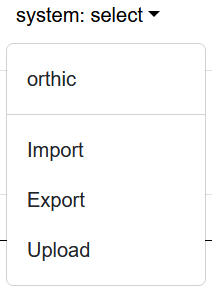
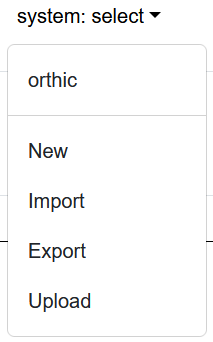
Add Delete button

diff --git a/static/js/index-scripts.js b/static/js/index-scripts.js
@@ -134,6 +134,67 @@ async function saveSystemToServer(systemName, systemData) {
 //     modal.show();
 // }
 
+function newSystem() {
+    console.log('newSystem')
+
+    // Prompt user for the system name
+    const inputName = prompt("Name for new system:");
+    if (!inputName) return; // Exit if user cancels or enters nothing
+
+    // Initialize new system object
+    const newSystemData = {
+        modes: {},
+        glyphs: {},
+        rules: [],
+        phrases: {}
+    };
+
+    // Set selectedSystem and add to systems
+    selectedSystem = inputName;
+    systems[selectedSystem] = newSystemData;
+
+    // Store in localStorage
+    localStorage.setItem('selectedSystem', selectedSystem);
+    localStorage.setItem('systems', JSON.stringify(systems));
+
+    // Update navbar or UI
+    navbarElement.textContent = `system: ${selectedSystem ? selectedSystem : 'select'}`;
+
+    // Reload the page
+    location.reload();
+}
+
+document.getElementById('newSystem').addEventListener('click', newSystem)
+
+function deleteSystem() {
+    if (!selectedSystem) {
+        alert("No system is currently selected.");
+        return;
+    }
+
+    const confirmDelete = confirm(`Are you sure you want to delete the system "${selectedSystem}"? This cannot be undone.`);
+    if (!confirmDelete) return;
+
+    // Delete the selected system
+    delete systems[selectedSystem];
+
+    // Clear selectedSystem
+    selectedSystem = null;
+
+    // Update localStorage
+    localStorage.setItem('systems', JSON.stringify(systems));
+    localStorage.removeItem('selectedSystem');
+
+    // Update UI
+    navbarElement.textContent = 'system: select';
+
+    // Optionally reload the page
+    location.reload();
+}
+
+document.getElementById('deleteSystem').addEventListener('click', deleteSystem);
+
+
 async function loadSystemData(systemName) {
     const basePath = `./static/data/systems/${systemName}`;
     const requiredFiles = ['glyphs.json', 'modes.json', 'rules.json', 'phrases.json'];
@@ -201,25 +262,28 @@ function addSystemsToDropdown() {
         // const downloadableList = document.getElementById('downloadableList');
 
         // Loop through the systems and create list items
-        data.systems.forEach(systemKey => {
-            const listItem = document.createElement('li');
-            listItem.classList.add('list-group-item', 'list-group-item-action');
-            // listItem.innerText = system;
-            listItem.innerHTML = `<a class="dropdown-item" href="#">${systemKey}</a>`; // Use the key as the link text
+        // data.systems.forEach(systemKey => {
+        // Create a Set to avoid duplicates from merging both sources
+        const allSystemKeys = new Set([
+            ...(data.systems || []),
+            ...Object.keys(systems || {})
+        ]);
 
-            // Add a click event listener to the anchor element
-            listItem.querySelector('a').addEventListener('click', async function (event) {
+        // Loop through the combined set of system keys
+        allSystemKeys.forEach(systemKey => {
+                const listItem = document.createElement('li');
+                listItem.classList.add('list-group-item', 'list-group-item-action');
+                // listItem.innerText = system;
+                listItem.innerHTML = `<a class="dropdown-item" href="#">${systemKey}</a>`; // Use the key as the link text
 
-            // // Add click event listener to each item
-            // listItem.addEventListener('click', function () {
+                // Add a click event listener to the anchor element
+                listItem.querySelector('a').addEventListener('click', async function (event) {
+
+                // Add click event listener to each item
                 if (!(systemKey in systems)) {
                     // Load the selected system's data
                     await loadSystemData(systemKey);
                 }
-
-                // event.preventDefault(); // Prevent default anchor behavior
-                // selectedSystem = systemKey; // Use the key as the selected system
-                // localStorage.setItem('selectedSystem', selectedSystem);
 
                 selectedSystem = systemKey;
                 localStorage.setItem('selectedSystem', selectedSystem);
@@ -234,31 +298,6 @@ function addSystemsToDropdown() {
         });
     })
     .catch(error => console.error('Error loading JSON:', error));
-
-    // // Loop through the dictionary keys
-    // for (const systemKey in systems) {
-    //     if (systems.hasOwnProperty(systemKey)) {
-    //         const listItem = document.createElement('li'); // Create a list item
-    //         listItem.innerHTML = `<a class="dropdown-item" href="#">${systemKey}</a>`; // Use the key as the link text
-
-    //         // Add a click event listener to the anchor element
-    //         listItem.querySelector('a').addEventListener('click', function (event) {
-    //             event.preventDefault(); // Prevent default anchor behavior
-
-    //             // Set the currently selected system
-    //             selectedSystem = systemKey; // Use the key as the selected system
-
-    //             // Store the selected system in local storage or a global variable
-    //             localStorage.setItem('selectedSystem', selectedSystem);
-    //             navbarElement.textContent = `system: ${selectedSystem ? selectedSystem : 'select'}`;
-
-    //             // Refresh the page
-    //             location.reload(); // This will reload the current page
-    //         });
-
-    //         systemsListContainer.appendChild(listItem); // Append the item to the systems list
-    //     }
-    // }
 }
 
 async function loadSystemsAndUpdateDropdown() {
@@ -267,12 +306,6 @@ async function loadSystemsAndUpdateDropdown() {
     const divider = document.getElementById("systemsDivider");
 
     divider.style.display = "block"
-    // if (Object.keys(systems).length > 0) {
-    //     divider.style.display = "block"; // Show divider if systems exist
-    // } else {
-    //     divider.style.display = "none"; // Hide divider if no systems
-    // }
-
 }
 
 // Call the fetch function on page load

diff --git a/help.html b/help.html
@@ -62,7 +62,8 @@
                     <ul class="dropdown-menu" aria-labelledby="navbarDropdown">
                         <div id="systemsList"></div>
                         <li><hr class="dropdown-divider" id="systemsDivider" style="display: none;"></li> <!-- Divider -->
-                        <!-- <li><a class="dropdown-item" href="#" id="downloadSystem">Download</a></li> -->
+                        <li><a class="dropdown-item" href="#" id="newSystem">New</a></li>
+                        <li><a class="dropdown-item" href="#" id="deleteSystem">Delete</a></li>
                         <li><a class="dropdown-item" href="#" id="importSystem">Import</a></li>
                         <li><a class="dropdown-item" href="#" id="exportSystem">Export</a></li>
                         <li><a class="dropdown-item" href="#" id="openUploadModal" data-bs-toggle="modal" data-bs-target="#uploadModal">Upload</a></li>
@@ -103,7 +104,7 @@
                         </ul>
 
                         <p>If you do not have a Github account, contact <a href="https://www.reddit.com/user/jerrshv/">u/jerrshv</a> on Reddit for assistance.</p>
-                        
+
                     </div>
                     <div class="modal-footer">
                         <button type="button" class="btn btn-secondary" data-bs-dismiss="modal">Close</button>
@@ -181,15 +182,17 @@
     <h3 id="basics">Basics</h3>
     <br>
 
-    Before doing anything, you must first select the system that you want to use:
+    Before doing anything, you must first select the system that you want to use (or select New to create a new one):
 
     <div style="text-align: center; padding: 20px;">
         <img src="static/data/images/system_selector.png" alt="The system selector dropdown menu." />
         <figcaption style="margin-top: 10px;">
             The system selector dropdown menu. Choose a system to begin writing in it on the <a href="#writer">write page</a> or editing it on the <a href="#drafter">draft page</a>. If no system is selected, any edits you make will be for a new system, which you can then export to store locally on your computer. The currently available systems are listed first, followed by the buttons:
             <br>
-            <!-- <b>Download</b>: download an existing system from the server.
-            <br> -->
+            <b>New</b>: start designing a new system.
+            <br>
+            <b>Delete</b>: delete the currently-selected system.
+            <br>
             <b>Import</b>: import an existing system from your local files.
             <br>
             <b>Export</b>: export your current system to a local file.

diff --git a/drafter.html b/drafter.html
@@ -62,7 +62,8 @@
                     <ul class="dropdown-menu" aria-labelledby="navbarDropdown">
                         <div id="systemsList"></div>
                         <li><hr class="dropdown-divider" id="systemsDivider" style="display: none;"></li> <!-- Divider -->
-                        <!-- <li><a class="dropdown-item" href="#" id="downloadSystem">Download</a></li> -->
+                        <li><a class="dropdown-item" href="#" id="newSystem">New</a></li>
+                        <li><a class="dropdown-item" href="#" id="deleteSystem">Delete</a></li>
                         <li><a class="dropdown-item" href="#" id="importSystem">Import</a></li>
                         <li><a class="dropdown-item" href="#" id="exportSystem">Export</a></li>
                         <li><a class="dropdown-item" href="#" id="openUploadModal" data-bs-toggle="modal" data-bs-target="#uploadModal">Upload</a></li>
@@ -103,7 +104,7 @@
                         </ul>
 
                         <p>If you do not have a Github account, contact <a href="https://www.reddit.com/user/jerrshv/">u/jerrshv</a> on Reddit for assistance.</p>
-                        
+
                     </div>
                     <div class="modal-footer">
                         <button type="button" class="btn btn-secondary" data-bs-dismiss="modal">Close</button>

diff --git a/rules.html b/rules.html
@@ -62,7 +62,8 @@
                     <ul class="dropdown-menu" aria-labelledby="navbarDropdown">
                         <div id="systemsList"></div>
                         <li><hr class="dropdown-divider" id="systemsDivider" style="display: none;"></li> <!-- Divider -->
-                        <!-- <li><a class="dropdown-item" href="#" id="downloadSystem">Download</a></li> -->
+                        <li><a class="dropdown-item" href="#" id="newSystem">New</a></li>
+                        <li><a class="dropdown-item" href="#" id="deleteSystem">Delete</a></li>
                         <li><a class="dropdown-item" href="#" id="importSystem">Import</a></li>
                         <li><a class="dropdown-item" href="#" id="exportSystem">Export</a></li>
                         <li><a class="dropdown-item" href="#" id="openUploadModal" data-bs-toggle="modal" data-bs-target="#uploadModal">Upload</a></li>
@@ -103,7 +104,7 @@
                         </ul>
 
                         <p>If you do not have a Github account, contact <a href="https://www.reddit.com/user/jerrshv/">u/jerrshv</a> on Reddit for assistance.</p>
-                        
+
                     </div>
                     <div class="modal-footer">
                         <button type="button" class="btn btn-secondary" data-bs-dismiss="modal">Close</button>

diff --git a/writer.html b/writer.html
@@ -62,7 +62,8 @@
                     <ul class="dropdown-menu" aria-labelledby="navbarDropdown">
                         <div id="systemsList"></div>
                         <li><hr class="dropdown-divider" id="systemsDivider" style="display: none;"></li> <!-- Divider -->
-                        <!-- <li><a class="dropdown-item" href="#" id="downloadSystem">Download</a></li> -->
+                        <li><a class="dropdown-item" href="#" id="newSystem">New</a></li>
+                        <li><a class="dropdown-item" href="#" id="deleteSystem">Delete</a></li>
                         <li><a class="dropdown-item" href="#" id="importSystem">Import</a></li>
                         <li><a class="dropdown-item" href="#" id="exportSystem">Export</a></li>
                         <li><a class="dropdown-item" href="#" id="openUploadModal" data-bs-toggle="modal" data-bs-target="#uploadModal">Upload</a></li>
@@ -103,7 +104,7 @@
                         </ul>
 
                         <p>If you do not have a Github account, contact <a href="https://www.reddit.com/user/jerrshv/">u/jerrshv</a> on Reddit for assistance.</p>
-                        
+
                     </div>
                     <div class="modal-footer">
                         <button type="button" class="btn btn-secondary" data-bs-dismiss="modal">Close</button>

diff --git a/index.html b/index.html
@@ -117,7 +117,8 @@
                     <ul class="dropdown-menu" aria-labelledby="navbarDropdown">
                         <div id="systemsList"></div>
                         <li><hr class="dropdown-divider" id="systemsDivider"></li>
-                        <!-- <li><a class="dropdown-item" href="#" id="downloadSystem">Download</a></li> -->
+                        <li><a class="dropdown-item" href="#" id="newSystem">New</a></li>
+                        <li><a class="dropdown-item" href="#" id="deleteSystem">Delete</a></li>
                         <li><a class="dropdown-item" href="#" id="importSystem">Import</a></li>
                         <li><a class="dropdown-item" href="#" id="exportSystem">Export</a></li>
                         <li><a class="dropdown-item" href="#" id="openUploadModal" data-bs-toggle="modal" data-bs-target="#uploadModal">Upload</a></li>
@@ -158,7 +159,7 @@
                         </ul>
 
                         <p>If you do not have a Github account, contact <a href="https://www.reddit.com/user/jerrshv/">u/jerrshv</a> on Reddit for assistance.</p>
-                        
+
                     </div>
                     <div class="modal-footer">
                         <button type="button" class="btn btn-secondary" data-bs-dismiss="modal">Close</button>
